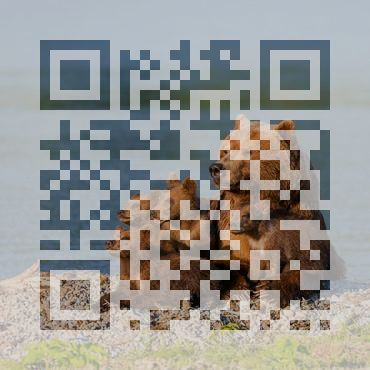
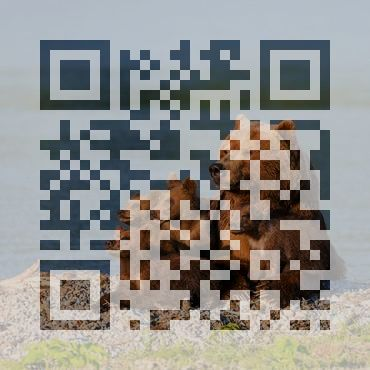
working with all it seems

diff --git a/index.ts b/index.ts
@@ -29,14 +29,15 @@ async function generateQRCode(
     .toBuffer();
   const processedImageBuffer = await sharp(processedImage)
     // .greyscale()
-    .composite([{
-      input: Buffer.from([255, 255, 255, 150]),
-      raw: {
-        width: 1,
-        height: 1,
-        channels: 4
-      },
-      tile: true,
+    .composite([
+      {
+        input: Buffer.from([255, 255, 255, 150]),
+        raw: {
+          width: 1,
+          height: 1,
+          channels: 4,
+        },
+        tile: true,
         blend: "over",
       },
     ])
@@ -45,28 +46,67 @@ async function generateQRCode(
   // Create a mask from the QR code
   const qrCodeMask = await sharp(qrCodeBuffer)
     .ensureAlpha()
-    .negate()
+    // .negate()
     .threshold(128)
     .toBuffer();
 
   // await sharp(qrCodeMask).toFile(outputFile);
 
+  const blends = [
+    "clear",
+    "source",
+    "over",
+    "in",
+    "out",
+    "atop",
+    "dest",
+    "dest-over",
+    "dest-in",
+    "dest-out",
+    "dest-atop",
+    "xor",
+    "add",
+    "saturate",
+    "multiply",
+    "screen",
+    "overlay",
+    "darken",
+    "lighten",
+    "color-dodge",
+    "colour-dodge",
+    "color-burn",
+    "colour-burn",
+    "hard-light",
+    "soft-light",
+    "difference",
+    "exclusion",
+  ];
+
+  // for (const blend of blends) {
   const qrMasked = await sharp(processedImage)
     // .ensureAlpha()
-    .joinChannel(qrCodeMask)
+    // .joinChannel(qrCodeMask)
+    .composite([
+      {
+        input: qrCodeMask,
+        blend: "add",
+      },
+    ])
     .png()
     .toBuffer();
 
+  // for (const blend of blends) {
   const final = await sharp(processedImageBuffer)
     .composite([
       {
         input: qrMasked,
-
+        blend: "multiply", // exclusion, burn, hard-light, in, multiply
       },
     ])
     .toBuffer();
 
-  await sharp(final).toFile(outputFile);
+  await sharp(final).toFile(`${outputFile}`);
+
   return;
 
   // Apply the mask to the input image
